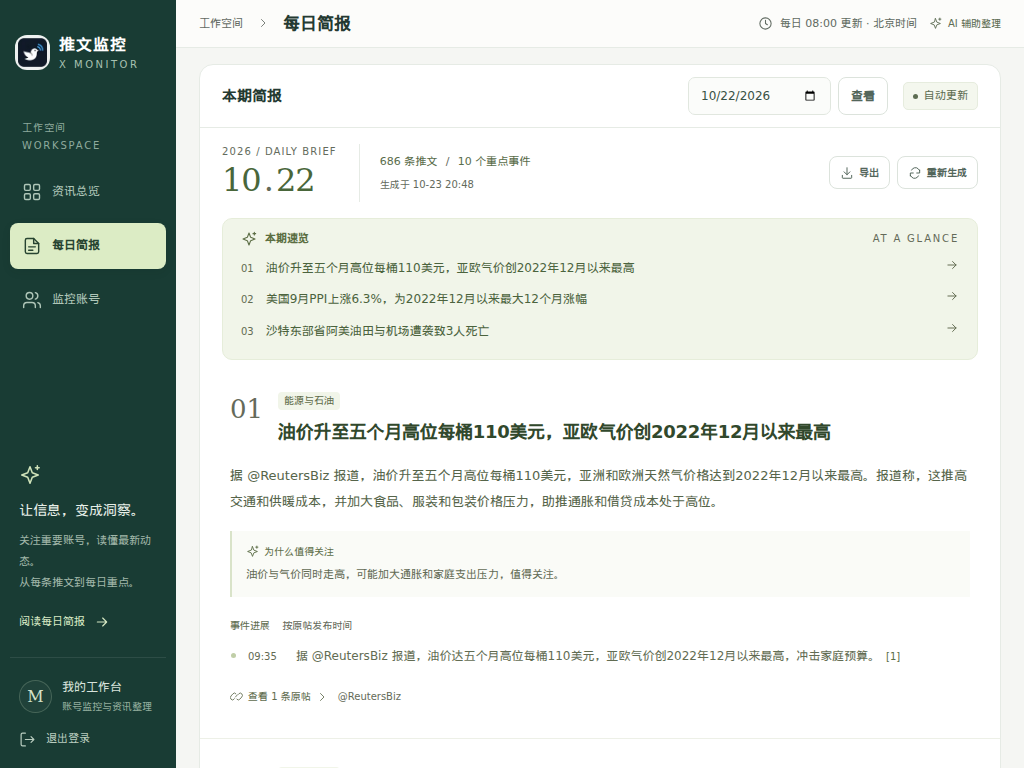
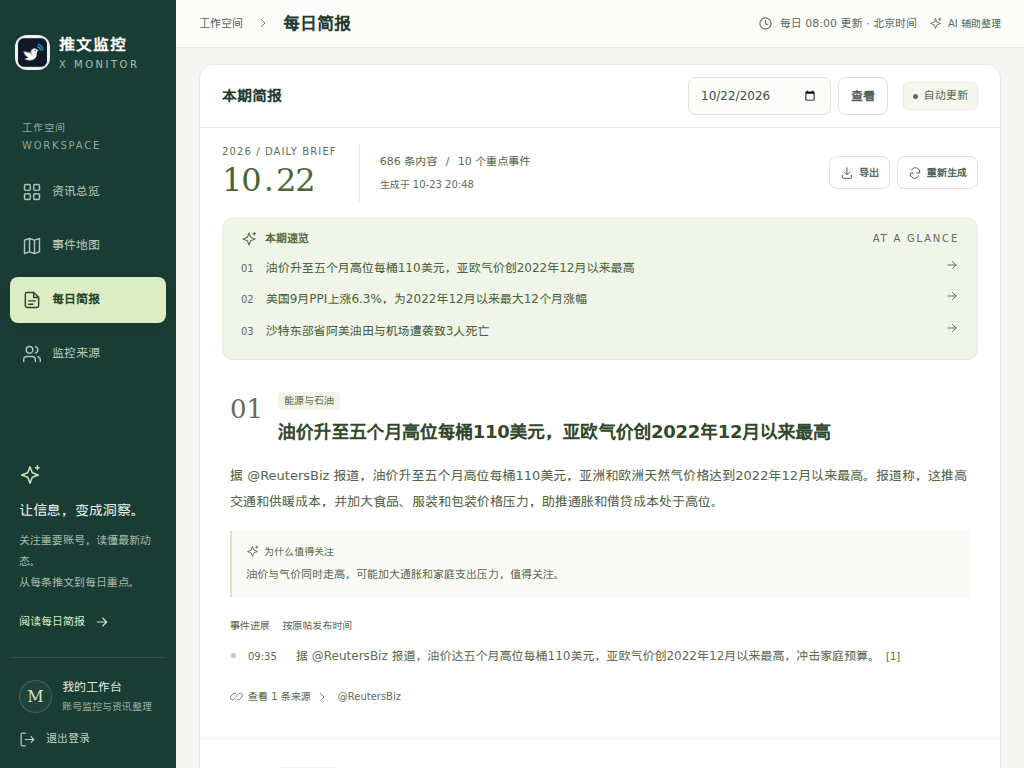
Add event map preview and refresh responsive screenshots

Changed region(s): [[0.0, 0.2812, 0.1875, 0.4688], [0.4062, 0.1875, 0.4375, 0.2188], [0.2812, 0.9062, 0.3125, 0.9375]]

diff --git a/scripts/render_screenshots.py b/scripts/render_screenshots.py
@@ -1,4 +1,4 @@
-"""Capture the dashboard and daily brief using saved data and Playwright Chromium."""
+"""Capture the dashboard, event map and daily brief using saved data and Chromium."""
 
 import argparse
 import json
@@ -22,9 +22,12 @@ ROOT = Path(__file__).resolve().parents[1]
 
 
 def copy_display_data(source, destination):
-    paths = [source / "config/targets.txt", *source.glob("*_posts.jsonl")]
+    paths = [source / "config/targets.txt", *source.glob("*_posts.jsonl"),
+             *(source / "rss_data").glob("*_posts.jsonl")]
     paths += [source / name for name in (
-        "monitor_status.json", "ai_data/annotations.json", "link_data/links.json"
+        "monitor_status.json", "ai_data/annotations.json", "link_data/links.json",
+        "config/rss_sources.json", "rss_data/status.json",
+        "geo_data/locations.json", "geo_data/status.json",
     ) if (source / name).exists()]
     for path in paths:
         target = destination / path.relative_to(source)
@@ -69,8 +72,10 @@ def preview_app(snapshot, password):
     time.tzset()
     sys.path.insert(0, str(ROOT))
     import web_app
+    import map_web
 
     web_app.BASE = snapshot
+    map_web.BASE = snapshot
     web_app.TARGETS = snapshot / "config/targets.txt"
     web_app.LOCK = snapshot / "config/.targets.lock"
     web_app.STATUS = snapshot / "monitor_status.json"
@@ -85,19 +90,20 @@ def render(origin, password, day, output, executable):
     from playwright.sync_api import sync_playwright
 
     routes = [
-        ("dashboard-4x3.png", "/", 1024, 768, False),
-        ("daily-4x3.png", f"/reports?date={day}", 1024, 768, True),
+        ("dashboard-4x3.png", "/", "#post-rows tr[data-post-id]", "#live-state"),
+        ("map-4x3.png", "/map", ".map-event", "#map-live"),
+        ("daily-4x3.png", f"/reports?date={day}", ".report-event", None),
     ]
     manifest = {
         "captured_at": datetime.now(ZoneInfo("Asia/Shanghai")).isoformat(timespec="seconds"),
         "timezone": "Asia/Shanghai",
-        "source": "Saved X posts, AI annotations and daily reports",
+        "source": "Saved X posts, RSS articles, AI annotations, event locations and daily reports",
         "report_date": day,
         "screenshots": [],
     }
     errors = []
     with sync_playwright() as playwright:
-        options = {"headless": True}
+        options = {"headless": True, "args": ["--enable-unsafe-swiftshader"]}
         if executable:
             options["executable_path"] = str(executable)
         browser = playwright.chromium.launch(**options)
@@ -108,6 +114,17 @@ def render(origin, password, day, output, executable):
                 locale="zh-CN", timezone_id="Asia/Shanghai", color_scheme="light",
             )
             page = context.new_page()
+            # Observe the map's public readiness API while preserving its normal rendering.
+            page.add_init_script("""document.addEventListener('DOMContentLoaded', () => {
+                if (!window.maplibregl) return;
+                const Map = maplibregl.Map;
+                maplibregl.Map = class extends Map {
+                    constructor(options) {
+                        super(options);
+                        window.screenshotMap = this;
+                    }
+                };
+            }, {once: true});""")
             page.on("pageerror", lambda error: errors.append(str(error)))
             page.on("response", lambda response: errors.append(
                 f"HTTP {response.status}: {response.url}"
@@ -117,14 +134,19 @@ def render(origin, password, day, output, executable):
             page.locator("#password").fill(password)
             page.locator(".login-form button").click()
             page.wait_for_url(origin + "/", wait_until="domcontentloaded")
-            for name, route, width, height, is_report in routes:
-                page.set_viewport_size({"width": width, "height": height})
+            for name, route, selector, live_state in routes:
                 page.goto(origin + route, wait_until="domcontentloaded")
-                selector = ".report-event" if is_report else "#post-rows tr[data-post-id]"
                 page.locator(selector).first.wait_for()
-                if not is_report:
+                if live_state:
+                    page.locator(live_state + ".connected").wait_for()
+                if route == "/map":
+                    page.locator(".map-marker").first.wait_for(timeout=60000)
                     page.wait_for_function(
-                        "document.querySelector('#live-state').classList.contains('connected')"
+                        """() => window.screenshotMap?.loaded()
+                            && window.screenshotMap.areTilesLoaded()
+                            && !window.screenshotMap.isMoving()
+                            && document.querySelector('#map-error').hidden""",
+                        timeout=60000,
                     )
                 page.evaluate("document.fonts.ready")
                 page.evaluate("scrollTo(0, 0)")
@@ -134,13 +156,15 @@ def render(origin, password, day, output, executable):
                         .filter(row => {const r = row.getBoundingClientRect();
                             return r.top >= 0 && r.bottom <= innerHeight;}).length
                 })""")
-                if dimensions["scrollWidth"] > width:
+                if dimensions["scrollWidth"] > 1024:
                     raise RuntimeError(f"Horizontal overflow in {name}: {dimensions}")
                 page.screenshot(path=str(output / name), animations="disabled")
-                item = {"file": name, "route": route, "viewport": {"width": width, "height": height},
+                item = {"file": name, "route": route, "viewport": {"width": 1024, "height": 768},
                         "rendered_items": page.locator(selector).count()}
-                if not is_report:
+                if route == "/":
                     item["fully_visible_feed_rows"] = dimensions["visible_rows"]
+                elif route == "/map":
+                    item["visible_markers"] = page.locator(".map-marker").count()
                 manifest["screenshots"].append(item)
                 print(json.dumps(item, ensure_ascii=False), flush=True)
         finally:

diff --git a/docs/screenshots.md b/docs/screenshots.md
@@ -1,10 +1,11 @@
 # 更新页面截图
 
-页面预览展示资讯总览和每日简报，使用 1024 × 768 浏览器视口，由页面自动适配布局。
+页面预览展示资讯总览、事件地图和每日简报，使用 1024 × 768 浏览器视口，由页面自动适配布局。
 
 | 页面 | 路由 | 视口 | 图片 |
 | --- | --- | --- | --- |
 | 资讯总览 | `/` | 1024 × 768 | [资讯总览](dashboard-4x3.png) |
+| 事件地图 | `/map` | 1024 × 768 | [事件地图](map-4x3.png) |
 | 每日简报 | `/reports?date=2026-10-22` | 1024 × 768 | [每日简报](daily-4x3.png) |
 
 ## 生成截图
@@ -19,12 +20,12 @@ python3 -m venv .venv-tools
 
 Linux 中文字体可使用 Debian / Ubuntu 的 `fonts-noto-cjk`。
 
-从部署目录读取数据并生成两张图片：
+从部署目录读取数据并生成三张图片：
 
 ```bash
 .venv-tools/bin/python scripts/render_screenshots.py --source /srv/x-monitor --output docs
 ```
 
-`--source` 指向包含账号列表、原帖、AI 注解和已完成日报的目录。脚本默认选取最新已完成日报，可用 `--report-date 2026-10-22` 指定日期，或用 `--chromium /path/to/chromium` 指定浏览器。
+`--source` 指向包含账号列表、X 与 RSS 内容、AI 注解、事件地点和已完成日报的目录。脚本默认选取最新已完成日报，可用 `--report-date 2026-10-22` 指定日期，或用 `--chromium /path/to/chromium` 指定浏览器。
 
-生成结果包含两张 PNG 和 [screenshots.json](screenshots.json)，清单记录生成时间、浏览器版本、页面尺寸和显示条数。
+生成结果包含三张 PNG 和 [screenshots.json](screenshots.json)，清单记录生成时间、浏览器版本、页面尺寸和显示条数。

diff --git a/README.md b/README.md
@@ -18,6 +18,10 @@
 
 ![资讯总览](docs/dashboard-4x3.png)
 
+### 事件地图
+
+![事件地图](docs/map-4x3.png)
+
 ### 每日简报
 
 ![每日简报](docs/daily-4x3.png)
